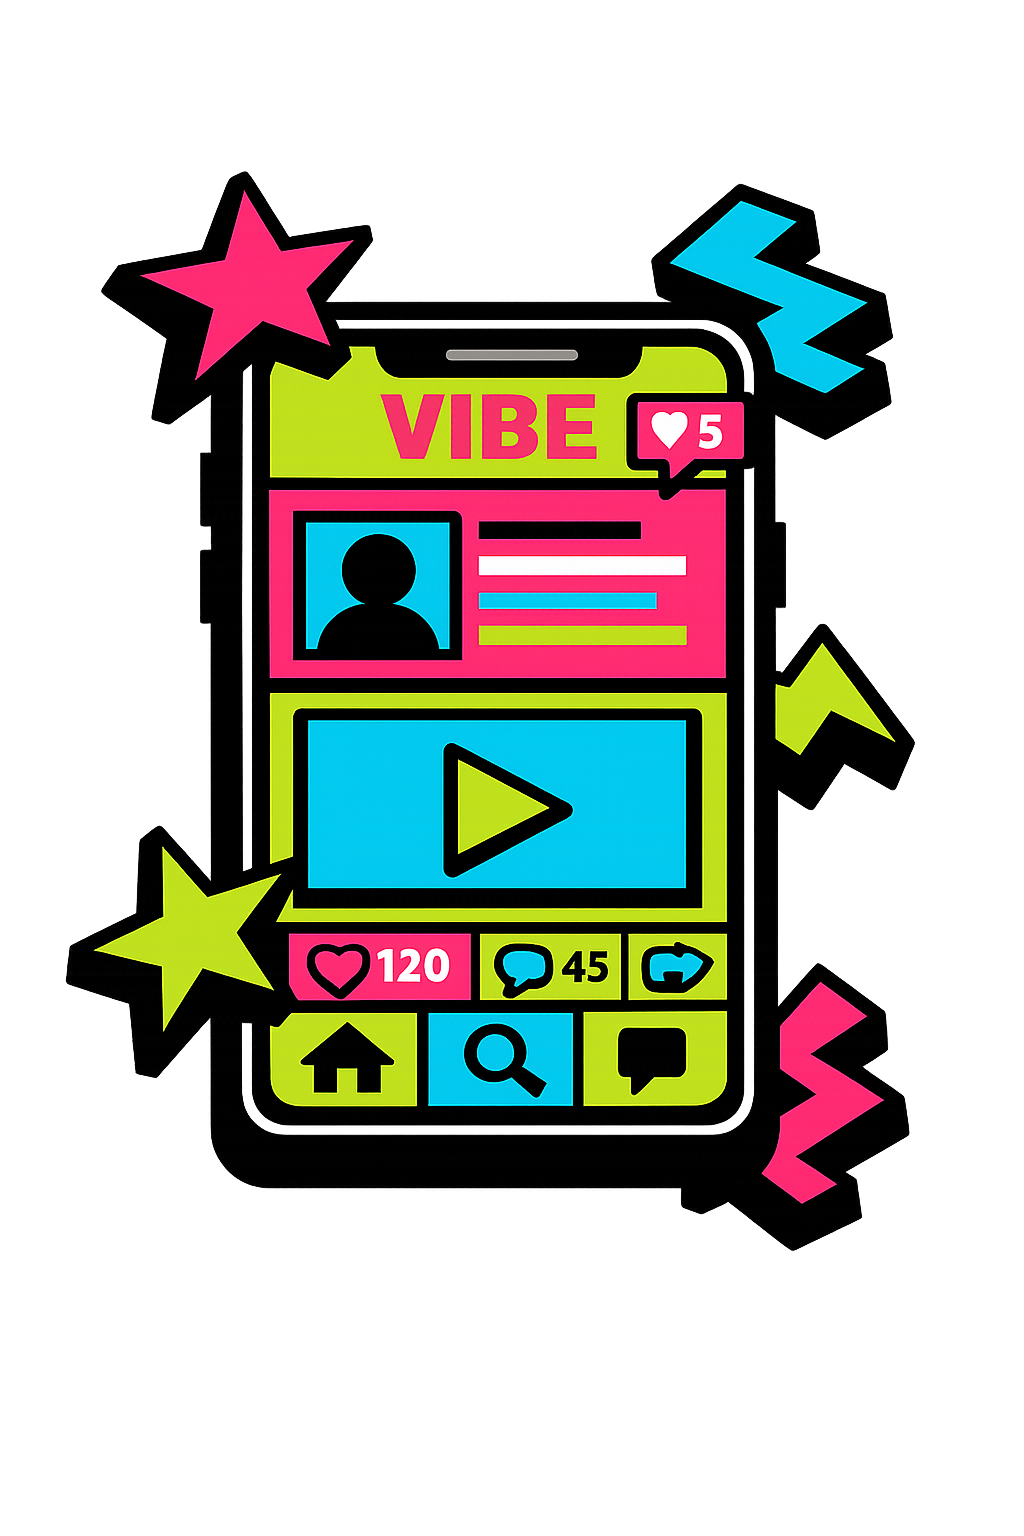
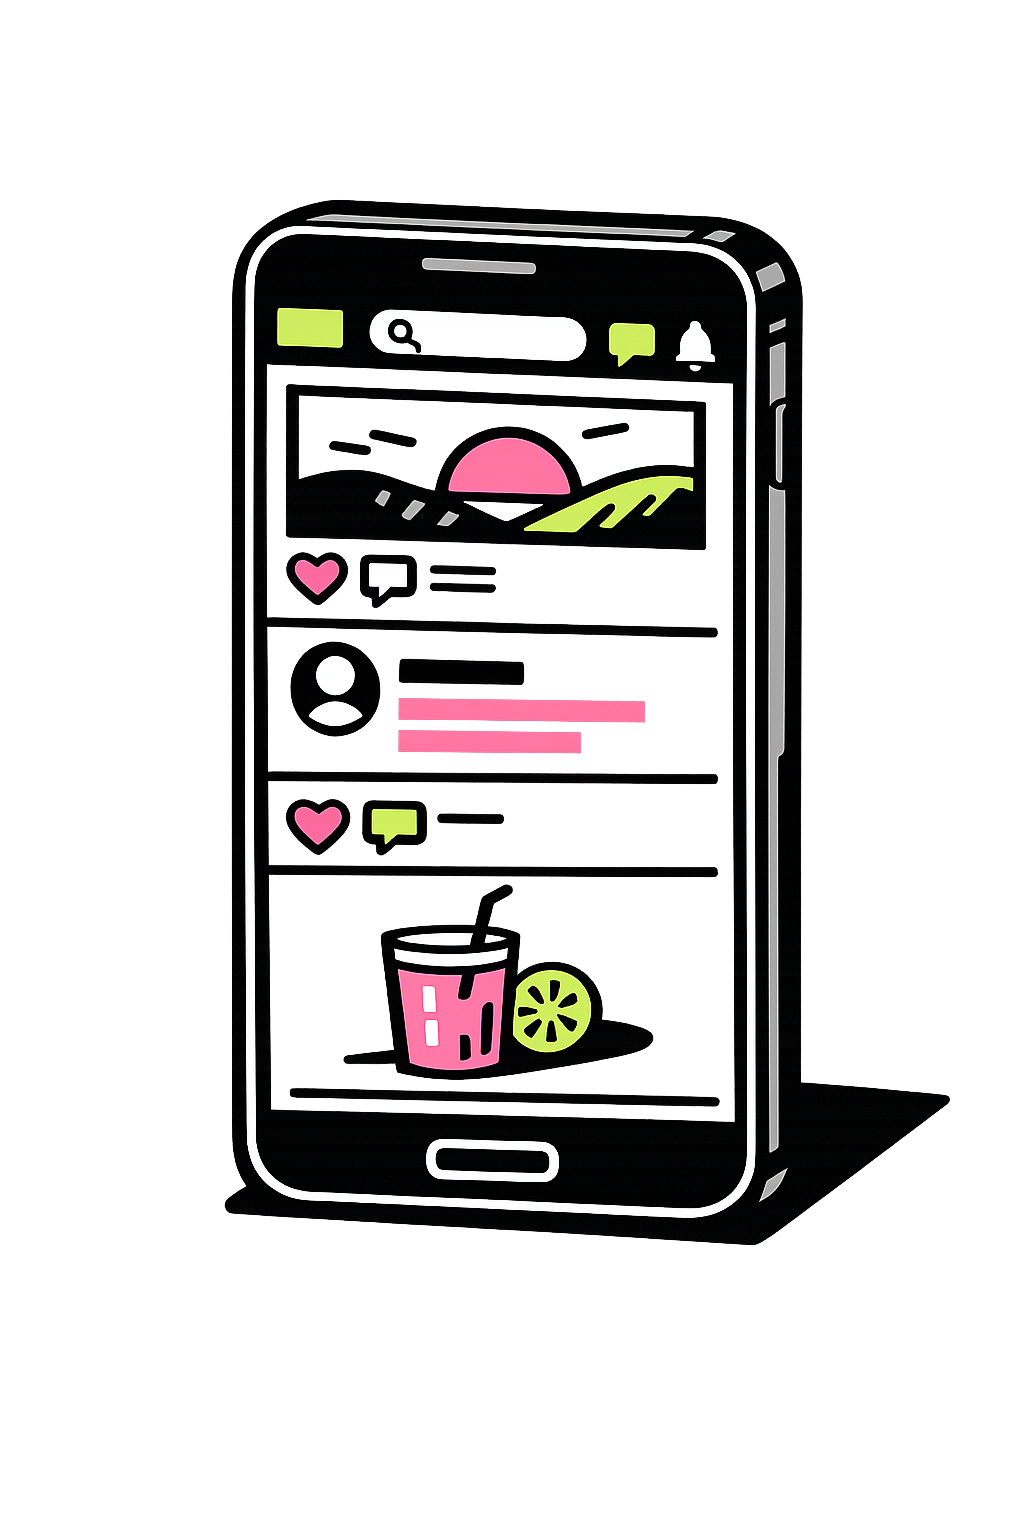
style: update theme and remove unused imports
- Update button styles in theme.js for solid, outline, and ghost variants
- Remove unused React imports from PageLayout.jsx and AuthPage.jsx
- Update auth.png image in public folder

diff --git a/src/theme.js b/src/theme.js
@@ -61,18 +61,22 @@ const components = {
     variants: {
       solid: {
         bg: "retro.main",
+        color: "black",
         boxShadow: "4px 4px 0px 0px #000",
         _hover: {
           bg: "retro.main",
+          color: "black",
           transform: "translate(-2px, -2px)",
           boxShadow: "6px 6px 0px 0px #000",
         },
       },
       outline: {
         bg: "white",
+        color: "black",
         boxShadow: "4px 4px 0px 0px #000",
         _hover: {
           bg: "white",
+          color: "black",
           transform: "translate(-2px, -2px)",
           boxShadow: "6px 6px 0px 0px #000",
         },
@@ -100,9 +104,15 @@ const components = {
             color: "black",
             opacity: 0.6,
           },
+          _hover: {
+            borderColor: "black",
+            boxShadow: "6px 6px 0px 0px #000",
+            transform: "translate(-2px, -2px)",
+          },
           _focus: {
             borderColor: "black",
             boxShadow: "4px 4px 0px 0px #000",
+            transform: "translate(-2px, -2px)",
           },
         },
       },

diff --git a/src/Layouts/PageLayout/PageLayout.jsx b/src/Layouts/PageLayout/PageLayout.jsx
@@ -1,5 +1,4 @@
 import { Box, Flex, Spinner, useBreakpointValue } from "@chakra-ui/react";
-import React from "react";
 import Sidebar from "../../components/Sidebar/Sidebar";
 import { useLocation } from "react-router-dom";
 import { auth } from "../../firebase/firebase";

diff --git a/src/pages/AuthPage/AuthPage.jsx b/src/pages/AuthPage/AuthPage.jsx
@@ -1,5 +1,4 @@
 import { Box, Container, Flex, Image, VStack } from "@chakra-ui/react";
-import React from "react";
 import AuthForm from "../../components/AuthForm/AuthForm";
 
 const AuthPage = () => {
